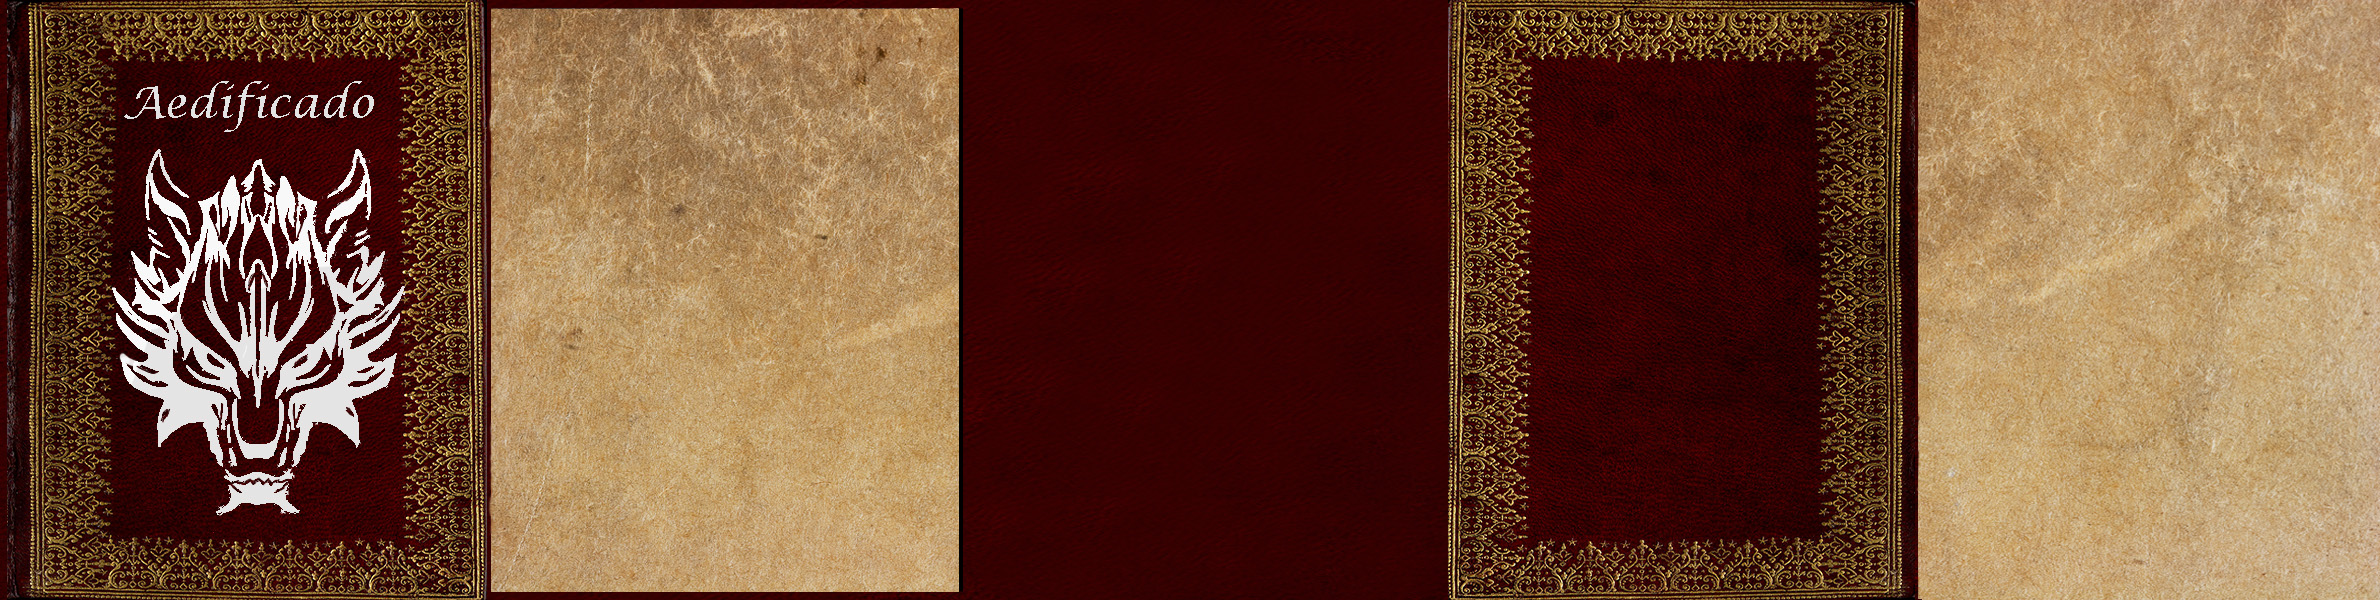
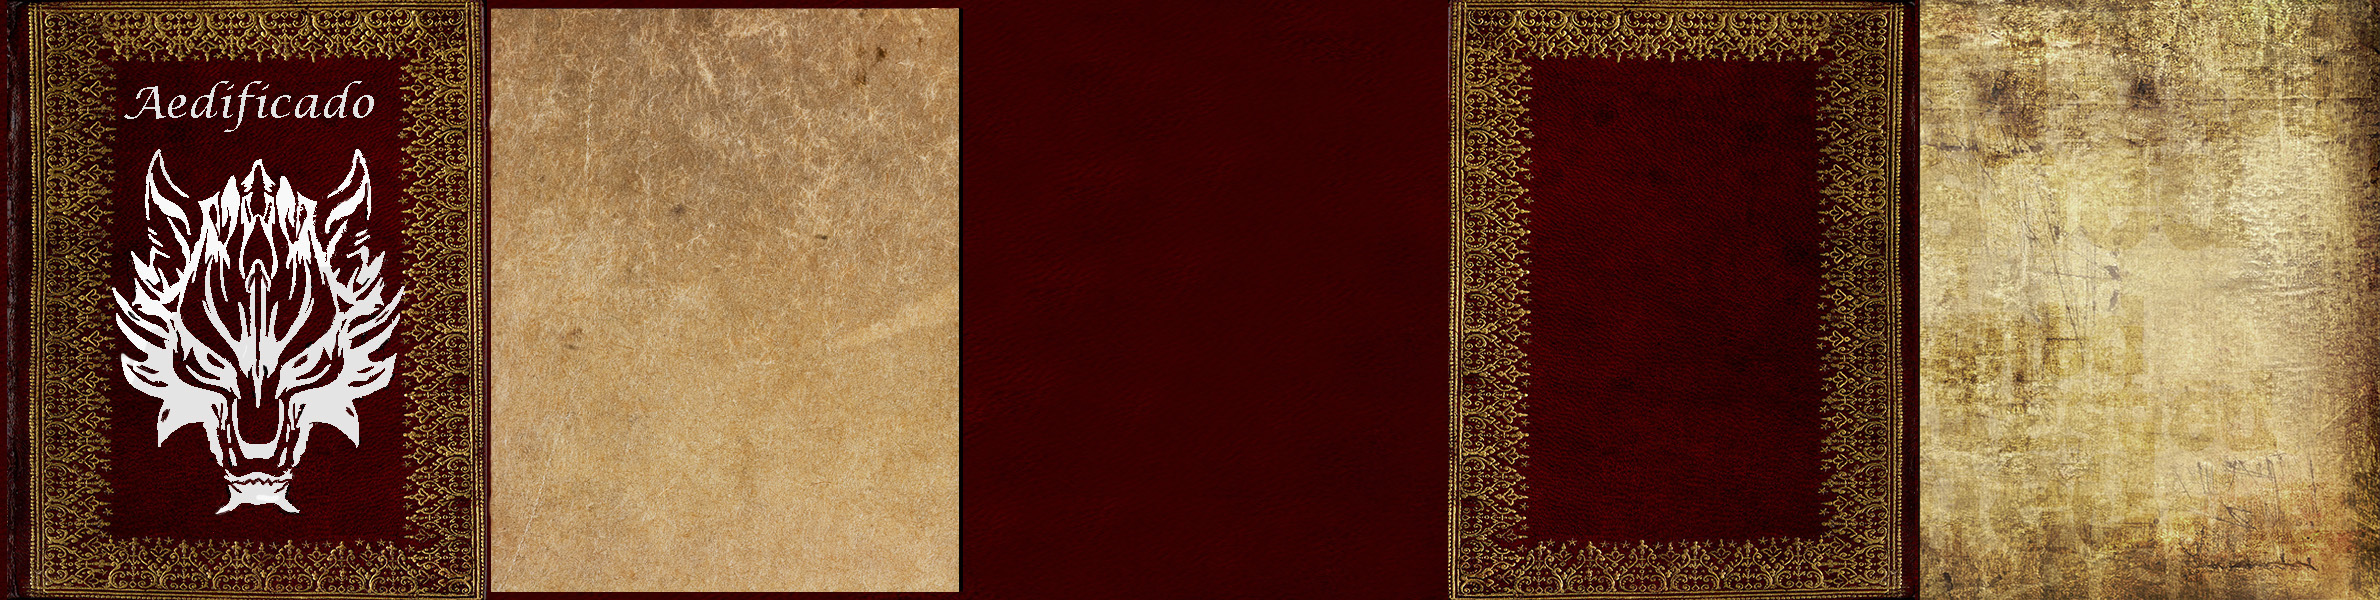
Nitpicking about alphabetizing methods, minor OCD thing

Changed region(s): [[0.8084, 0.0, 1.0, 1.0]]

diff --git a/da2016/css/book.css b/da2016/css/book.css
@@ -66,20 +66,20 @@ body, ul, table, form {
 }
 
 .sj-book blockquote {
-    color: #586078;
+    color: #000000;
     margin: 10px 0;
     font-style: italic;
 }
 
 .sj-book blockquote:before {
     content: "\201C";
-    color: #333D53;
+    color: #000000;
     font-size: 20px;
 }
 
 .sj-book blockquote:after {
     content: "\201D";
-    color: #333D53;
+    color: #000000;
     font-size: 20px;
 }
 
@@ -88,7 +88,7 @@ body, ul, table, form {
     font-size: 13px;
     font-weight: 200;
     font-style: normal;
-    color: #666;
+    color: #000000;
 }
 
 .sj-book .book-content .center-pic {
@@ -267,21 +267,11 @@ body, ul, table, form {
 }
 
 .sj-book .even {
-    background: -webkit-gradient(linear, left top, right top, color-stop(0.95, #fff), color-stop(1, #dadada));
-    background-image: -webkit-linear-gradient(left, #fff 95%, #dadada 100%);
-    background-image: -moz-linear-gradient(left, #fff 95%, #dadada 100%);
-    background-image: -ms-linear-gradient(left, #fff 95%, #dadada 100%);
-    background-image: -o-linear-gradient(left, #fff 95%, #dadada 100%);
-    background-image: linear-gradient(left, #fff 95%, #dadada 100%);
+    background-image: url(../images/book/page-left.jpg);
 }
 
 .sj-book .odd {
-    background: -webkit-gradient(linear, right top, left top, color-stop(0.95, #fff), color-stop(1, #cacaca));
-    background-image: -webkit-linear-gradient(right, #fff 95%, #cacaca 100%);
-    background-image: -moz-linear-gradient(right, #fff 95%, #cacaca 100%);
-    background-image: -ms-linear-gradient(right, #fff 95%, #cacaca 100%);
-    background-image: -o-linear-gradient(right, #fff 95%, #cacaca 100%);
-    background-image: linear-gradient(right, #fff 95%, #cacaca 100%);
+    background-image: url(../images/book/page-right.jpg);
 }
 
 .sj-book .loader {
@@ -308,7 +298,7 @@ body, ul, table, form {
     font-size: 16px;
     width: 300px;
     margin: 80px auto;
-    color: #ccc;
+    color: #000000;
 }
 
 .sj-book .table-contents li {
@@ -325,7 +315,7 @@ body, ul, table, form {
     width: 100%;
     clear: both;
     text-decoration: none;
-    color: #333;
+    color: #000000;
     margin: 2px 0;
     padding: 0 10px;
 }
@@ -360,14 +350,14 @@ body, ul, table, form {
 
 .ie8 .sj-book .even,
 .ie9 .sj-book .even {
-    background-image: url(../images/book/gradient-page-left.jpg);
+    background-image: url(../images/book/page-left.jpg);
     background-position: right top;
     background-repeat: repeat-y;
 }
 
 .ie8 .sj-book .odd,
 .ie9 .sj-book .odd {
-    background-image: url(../images/book/gradient-page-right.jpg);
+    background-image: url(../images/book/page-right.jpg);
     background-position: left top;
     background-repeat: repeat-y;
 }
